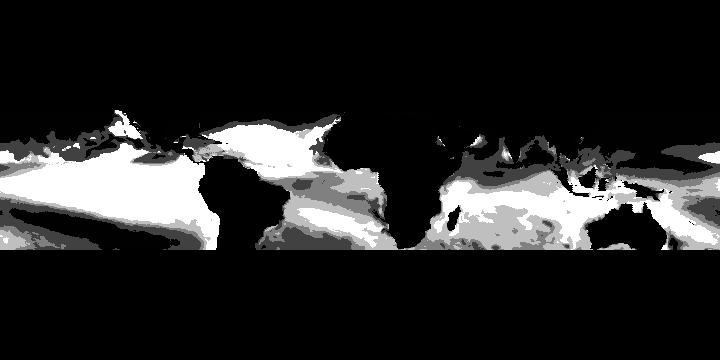
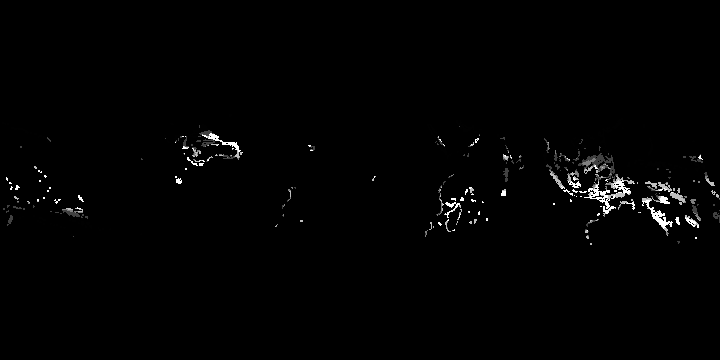
Coral heat stress only at reef regions; sea-ice overlay on The ocean now globe
- DHW and the bleaching outlook are masked to NOAA Coral Reef Watch 5 km reef-region polygons instead of the tropical belt
- Daily sea-ice fraction (CoralTemp) drawn in white over every globe layer, with a toggle

Changed region(s): [[0.0, 0.3056, 1.0, 0.7028]]

diff --git a/src/components/OceanNowGlobe.tsx b/src/components/OceanNowGlobe.tsx
@@ -39,12 +39,13 @@ const VIEWS = [
 ];
 
 const WDPA = WDPA_LAYER;
+const ICE_LUT: Lut = Array.from({ length: 256 }, () => [244, 248, 252]);
 
 const day = (iso: string) => new Date(iso + "T12:00:00Z").toLocaleDateString("en-GB", { day: "numeric", month: "long", year: "numeric", timeZone: "UTC" });
 const short = (iso: string) => new Date(iso + "T12:00:00Z").toLocaleDateString("en-GB", { month: "long", year: "numeric", timeZone: "UTC" });
 
-export default function OceanNowGlobe({ ssta, dhw, currents, bleachOutlook, sstOutlook, fishing, initialLayer = "ssta", initialView = "pacific", compact = false, protectedAreas = false }: {
-  ssta: FieldMeta; dhw: FieldMeta; currents: CurrentsMeta; bleachOutlook?: BleachOutlookMeta; sstOutlook?: SstOutlookMeta; fishing?: FishingMeta;
+export default function OceanNowGlobe({ ssta, dhw, currents, bleachOutlook, sstOutlook, fishing, seaIce, initialLayer = "ssta", initialView = "pacific", compact = false, protectedAreas = false }: {
+  ssta: FieldMeta; dhw: FieldMeta; currents: CurrentsMeta; bleachOutlook?: BleachOutlookMeta; sstOutlook?: SstOutlookMeta; fishing?: FishingMeta; seaIce?: EncodedLayer & { date: string; grid: GridSpec };
   initialLayer?: "ssta" | "dhw"; initialView?: string; compact?: boolean; protectedAreas?: boolean;
 }) {
   const [map, setMap] = useState<MLMap | null>(null);
@@ -53,6 +54,9 @@ export default function OceanNowGlobe({ ssta, dhw, currents, bleachOutlook, sstO
   const [kind, setKind] = useState<Kind>(initialLayer === "dhw" ? "coral" : "temp");
   const [lead, setLead] = useState(1);
   const [showMpa, setShowMpa] = useState(false);
+  const [showIce, setShowIce] = useState(Boolean(seaIce));
+  const [iceField, setIceField] = useState<Field | null>(null);
+  const [iceCanvas, setIceCanvas] = useState<HTMLCanvasElement | null>(null);
   const [luts, setLuts] = useState<Record<string, { lut: Lut }> | null>(null);
   const [loaded, setLoaded] = useState<{ key: string; field: Field } | null>(null);
   const [canvas, setCanvas] = useState<HTMLCanvasElement | null>(null);
@@ -91,6 +95,18 @@ export default function OceanNowGlobe({ ssta, dhw, currents, bleachOutlook, sstO
     // eslint-disable-next-line react-hooks/exhaustive-deps
   }, [active]);
   useEffect(() => {
+    if (!seaIce) return;
+    loadField(asset(`/data/now/${seaIce.file}`), seaIce, seaIce.grid).then(setIceField).catch(() => {});
+  }, [seaIce]);
+  useEffect(() => {
+    if (!iceField) return;
+    const W = window.innerWidth < 720 ? 1024 : 2048;
+    const c = document.createElement("canvas");
+    c.width = W; c.height = W;
+    c.getContext("2d")!.putImageData(renderMercator(iceField, ICE_LUT, [0.15, 1], W, W, 240, true), 0, 0);
+    setIceCanvas(c);
+  }, [iceField]);
+  useEffect(() => {
     if (!field || !lut) return;
     const W = window.innerWidth < 720 ? 1024 : 2048;
     const img = renderMercator(field, lut, active.domain, W, W, 255, active.id === "fishing");
@@ -100,6 +116,18 @@ export default function OceanNowGlobe({ ssta, dhw, currents, bleachOutlook, sstO
     setCanvas(c); setKey(activeKey);
     // eslint-disable-next-line react-hooks/exhaustive-deps
   }, [field, lut]);
+
+  // The data layer with today's sea ice drawn on top, so the poles read on every layer (and over the currents).
+  const composite = useMemo(() => {
+    const base = isCurrents ? null : canvas;
+    if (!showIce || !iceCanvas) return { image: base, key: isCurrents ? "none" : key };
+    const c = document.createElement("canvas");
+    c.width = iceCanvas.width; c.height = iceCanvas.height;
+    const ctx = c.getContext("2d")!;
+    if (base) ctx.drawImage(base, 0, 0, c.width, c.height);
+    ctx.drawImage(iceCanvas, 0, 0);
+    return { image: c, key: `${isCurrents ? "none" : key}+ice` };
+  }, [isCurrents, canvas, key, showIce, iceCanvas]);
 
   const onHover = useCallback((h: HoverInfo | null) => {
     if (!h || !field) { setHover(null); return; }
@@ -144,6 +172,12 @@ export default function OceanNowGlobe({ ssta, dhw, currents, bleachOutlook, sstO
           )}
         </div>
         <div className={styles.toggles}>
+          {seaIce && (
+            <label className={styles.toggle}>
+              <input type="checkbox" checked={showIce} onChange={(e) => setShowIce(e.target.checked)} />
+              <span>Sea ice</span>
+            </label>
+          )}
           {protectedAreas && (
             <label className={styles.toggle}>
               <input type="checkbox" checked={showMpa} onChange={(e) => setShowMpa(e.target.checked)} />
@@ -155,7 +189,7 @@ export default function OceanNowGlobe({ ssta, dhw, currents, bleachOutlook, sstO
 
       <div className={styles.box}>
         <EarthMap look="satellite" projection="globe" space="dark" view={{ center: view.center, zoom: view.zoom }}
-          image={isCurrents ? null : canvas} imageKey={isCurrents ? "none" : key} imageOpacity={0.9} onReady={setMap} onHover={onHover} onSelect={onHover}
+          image={composite.image} imageKey={composite.key} imageOpacity={0.9} onReady={setMap} onHover={onHover} onSelect={onHover}
           raster={showMpa ? WDPA : null} className={styles.map} ariaLabel={`Globe: ${title}, centred on the ${view.label}`} />
         <CurrentsLayer map={map} meta={currents} visible={isCurrents} />
         {isOutlook && <span className={styles.badge}>Forecast</span>}
@@ -202,10 +236,10 @@ export default function OceanNowGlobe({ ssta, dhw, currents, bleachOutlook, sstO
           {!isCurrents && active.id === "ssta" && (<>
             <div><h3>What it shows</h3><p>How much warmer or colder the sea surface is than the 1985–2012 average for the same day, from satellite measurements blended into a daily 5 km product (shown here at 0.25°).</p></div>
             <div><h3>Why it matters</h3><p>The warm band along the equatorial Pacific is El Niño. Large warm patches elsewhere are marine heatwaves, which bleach corals, move fish stocks and fuel heavy rain on nearby coasts. <Link href="/science/el-nino/">El Niño</Link> · <Link href="/changes/coral-reefs/">coral reefs</Link></p></div>
-            <div><h3>Source</h3><p><span className="evidence evidence--obs">Observed</span> NOAA Coral Reef Watch, CoralTemp v3.1 SST anomaly. <a href={ssta.source.url}>Product page</a>. Near-coast and sea-ice pixels are less reliable.</p></div>
+            <div><h3>Source</h3><p><span className="evidence evidence--obs">Observed</span> NOAA Coral Reef Watch, CoralTemp v3.1 SST anomaly. <a href={ssta.source.url}>Product page</a>. Near-coast pixels are less reliable. Sea ice (white, where at least 15% of the sea is ice) is from the same product.</p></div>
           </>)}
           {!isCurrents && active.id === "dhw" && (<>
-            <div><h3>What it shows</h3><p>How much, and for how long, the sea has been at least 1°C warmer than its usual warmest month over the past 12 weeks, in °C-weeks; 4 °C-weeks is roughly one month at 1°C above that level. Shown for the tropical belt where warm-water reefs grow.</p></div>
+            <div><h3>What it shows</h3><p>How much, and for how long, the sea has been at least 1°C warmer than its usual warmest month over the past 12 weeks, in °C-weeks; 4 °C-weeks is roughly one month at 1°C above that level. Shown only at coral reef regions (NOAA Coral Reef Watch’s 5 km reef areas); white means no heat stress.</p></div>
             <div><h3>Why it matters</h3><p>Above 4 °C-weeks, reef-wide bleaching is likely; above 8, bleaching with significant coral death is likely. Repeated heat stress is why the Global Tipping Points Report 2025 assesses that reefs are crossing their thermal tipping point. <Link href="/changes/coral-reefs/">Coral reefs</Link></p></div>
             <div><h3>Source</h3><p><span className="evidence evidence--obs">Observed</span> NOAA Coral Reef Watch, Degree Heating Weeks v3.1. <a href={dhw.source.url}>Product page</a>. These are risk levels; how reefs respond varies locally.</p></div>
           </>)}
@@ -215,7 +249,7 @@ export default function OceanNowGlobe({ ssta, dhw, currents, bleachOutlook, sstO
             <div><h3>Source and limits</h3><p><span className="evidence evidence--obs">Observed</span> <a href={fishing!.source.url}>Global Fishing Watch</a>, CC BY-SA 4.0 (Kroodsma et al., 2018). Many small and artisanal boats carry no AIS, and coverage is uneven between regions, so this is a minimum.</p></div>
           </>)}
           {!isCurrents && active.id === "bleach" && (<>
-            <div><h3>What it shows</h3><p>The highest bleaching alert level expected over the next four months, at places where at least 60% of forecast runs reach it. Issued {day(bleachOutlook!.date)}, updated weekly.</p></div>
+            <div><h3>What it shows</h3><p>The highest bleaching alert level expected over the next four months at coral reef regions, where at least 60% of forecast runs reach it. Issued {day(bleachOutlook!.date)}, updated weekly.</p></div>
             <div><h3>Why it matters</h3><p>Reef managers use the outlook to prepare monitoring and reduce other pressures before heat arrives. A strong El Niño raises bleaching risk across the tropics in the months that follow. <Link href="/changes/coral-reefs/">Coral reefs</Link></p></div>
             <div><h3>Source and reliability</h3><p><span className="evidence evidence--forecast">Forecast</span> NOAA Coral Reef Watch Four-Month Outlook v5, from the NOAA CFSv2 climate model (Liu et al., 2018). Skill is higher in the first weeks and lower near the end of the period.</p></div>
           </>)}

diff --git a/src/app/ocean-now/page.tsx b/src/app/ocean-now/page.tsx
@@ -49,7 +49,7 @@ export default function OceanNow() {
       </header>
 
       <section className="wrap" aria-label="Ocean conditions today">
-        <OceanNowGlobe ssta={m.ssta} dhw={m.dhw} currents={m.currents} bleachOutlook={m.bleachingOutlook} sstOutlook={m.sstOutlook} fishing={m.fishing} />
+        <OceanNowGlobe ssta={m.ssta} dhw={m.dhw} currents={m.currents} bleachOutlook={m.bleachingOutlook} sstOutlook={m.sstOutlook} fishing={m.fishing} seaIce={m.seaIceField} />
       </section>
 
       <section className={`section section--alt ${styles.enso}`} aria-labelledby="enso">

diff --git a/pipeline/ocean_now.py b/pipeline/ocean_now.py
@@ -105,6 +105,46 @@ def currents() -> dict:
 ERDDAP = "https://coastwatch.noaa.gov/erddap/griddap"
 
 
+_REEF_POLYS = None
+
+
+def reef_mask(lat: np.ndarray, lon: np.ndarray) -> np.ndarray:
+    """True for grid cells that overlap a NOAA Coral Reef Watch reef region (5 km virtual-station polygons).
+
+    lat/lon are cell centres (lat north-to-south as stored). Polygons are sampled every 0.025° and any cell
+    containing a reef-region sample is kept. Source: coralreefwatch.noaa.gov/product/vs/vs_polygons.json.
+    """
+    global _REEF_POLYS
+    from matplotlib.path import Path as MPath
+    if _REEF_POLYS is None:
+        d = json.loads(get("https://coralreefwatch.noaa.gov/product/vs/vs_polygons.json", 180))
+        rings = []
+        for f in d["features"]:
+            g = f["geometry"]
+            if g["type"] == "Polygon":
+                rings += [g["coordinates"][0]]
+            elif g["type"] == "MultiPolygon":
+                rings += [p[0] for p in g["coordinates"]]
+        _REEF_POLYS = [np.asarray(r, dtype=float) for r in rings]
+    res = abs(float(lat[0] - lat[1]))
+    mask = np.zeros((lat.size, lon.size), dtype=bool)
+    step = 0.025
+    for r in _REEF_POLYS:
+        x0, y0 = r.min(axis=0); x1, y1 = r.max(axis=0)
+        xs = np.arange(x0 + step / 2, x1, step); ys = np.arange(y0 + step / 2, y1, step)
+        if not xs.size or not ys.size:
+            continue
+        X, Y = np.meshgrid(xs, ys)
+        inside = MPath(r).contains_points(np.c_[X.ravel(), Y.ravel()])
+        if not inside.any():
+            continue
+        px, py = X.ravel()[inside], Y.ravel()[inside]
+        i = np.clip(np.rint((lat[0] - py) / res).astype(int), 0, lat.size - 1)
+        j = np.clip(np.rint((px - lon[0]) / res).astype(int), 0, lon.size - 1)
+        mask[i, j] = True
+    return mask
+
+
 def crw_field(dataset: str, var: str, name: str, scale: dict, tropics_only: bool = False) -> dict:
     import netCDF4 as nc
     from common import encode_grid
@@ -118,9 +158,9 @@ def crw_field(dataset: str, var: str, name: str, scale: dict, tropics_only: bool
     if lat[0] < lat[-1]:
         a, lat = a[::-1], lat[::-1]
     if tropics_only:
-        # Degree Heating Weeks are a coral bleaching index: show the reef belt only,
+        # Degree Heating Weeks are a coral bleaching index: show it only where reefs are,
         # and drop flagged or implausible values (sea ice, inland water).
-        a[np.abs(lat) > 35] = np.nan
+        a[~reef_mask(lat, lon)] = np.nan
         a[a > 60] = np.nan
     meta = encode_grid(a[::-1], NOW / f"{name}.png")             # encode_grid expects south-to-north
     return {**meta, "date": t,
@@ -143,6 +183,27 @@ def dhw() -> dict:
                       "source": {"org": "NOAA Coral Reef Watch", "product": "Daily global 5 km Degree Heating Weeks (v3.1)",
                                  "url": "https://coralreefwatch.noaa.gov/product/5km/index_5km_dhw.php", "licence": "Use without restriction; credit NOAA Coral Reef Watch"}},
                      tropics_only=True)
+
+
+def sea_ice_field() -> dict:
+    """Daily sea-ice concentration on the same 0.25° grid, for the overlay on the globe (ice where >= 15%)."""
+    import netCDF4 as nc
+    from common import encode_grid
+    sel = "%5B(last)%5D%5B(89.975):5:(-89.975)%5D%5B(-179.975):5:(179.975)%5D"
+    d = nc.Dataset("ice.nc", memory=get(f"{ERDDAP}/noaacrwsstDaily.nc?sea_ice_fraction{sel}", 300))
+    a = np.ma.filled(d["sea_ice_fraction"][0].astype(float), np.nan)
+    lat = np.asarray(d["latitude"][:], dtype=float); lon = np.asarray(d["longitude"][:], dtype=float)
+    t = nc.num2date(d["time"][0], d["time"].units).strftime("%Y-%m-%d")
+    if lat[0] < lat[-1]:
+        a, lat = a[::-1], lat[::-1]
+    a[(a < 0.15) | (a > 1)] = np.nan
+    meta = encode_grid(a[::-1], NOW / "sea_ice.png")
+    return {**meta, "date": t,
+            "grid": {"lat0": float(lat.min()), "lat1": float(lat.max()), "lon0": float(lon.min()), "lon1": float(lon.max()),
+                     "res": float(round(lat[0] - lat[1], 4)), "h": int(lat.size), "w": int(lon.size), "rowOrder": "north-to-south"},
+            "units": "fraction", "threshold": 0.15,
+            "source": {"org": "NOAA Coral Reef Watch", "product": "CoralTemp v3.1 sea-ice fraction (from the NOAA Geo-Polar Blended analysis)",
+                       "url": "https://coralreefwatch.noaa.gov/product/5km/index_5km_sst.php", "licence": "Use without restriction; credit NOAA Coral Reef Watch"}}
 
 
 # ----------------------------------------------------------------- outlooks
@@ -169,7 +230,7 @@ def bleaching_outlook() -> dict:
         a, lat = a[::-1], lat[::-1]
     if lon.max() > 180:
         k = int(np.argmax(lon > 180)); a = np.roll(a, -k, axis=1); lon = np.roll(np.where(lon > 180, lon - 360, lon), -k)
-    a[np.abs(lat) > 35] = np.nan
+    a[~reef_mask(lat, lon)] = np.nan
     a[(a < 0) | (a > 4)] = np.nan
     meta = encode_grid(a[::-1], NOW / "bleaching_outlook.png")
     iso = lambda x: f"{x[:4]}-{x[4:6]}-{x[6:]}"
@@ -512,7 +573,7 @@ def main() -> None:
         manifest["enso"] = {"file": "enso.json", "week": e["latest"]["week"], "nino34": e["latest"]["nino34"],
                             "relative34": e["latest"]["relative34"], "status": e["discussion"]["status"]}
         print(f"  ENSO week {e['latest']['week']}: Niño-3.4 {e['latest']['nino34']:+.1f} °C (relative {e['latest']['relative34']}), status: {e['discussion']['status']}")
-    for key, fn in (("ssta", ssta), ("dhw", dhw)):
+    for key, fn in (("ssta", ssta), ("dhw", dhw), ("seaIceField", sea_ice_field)):
         r = run(key, fn, status)
         if r:
             manifest[key] = r
